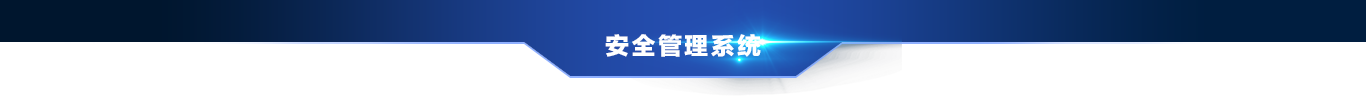
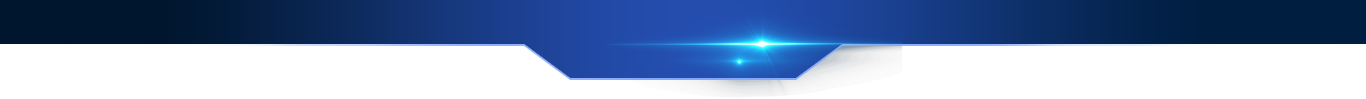
首页样式修改，和统计报表修改

Changed region(s): [[0.0, 0.2727, 1.0, 0.9091]]

diff --git a/safe/index.html b/safe/index.html
@@ -16,11 +16,12 @@
         }
 
         .layui-layout-body {
-            background: url("assets/images/bj.png");
+            background: url("assets/images/bj.png") no-repeat;
+            background-size: cover;
         }
         .layui-bg-black{
             padding-top: 30px;
-            background: url("assets/images/bj_caidan.png");
+            background: url("assets/images/bj_caidan.png") no-repeat;
             background-size: 200px 100%;
         }
         .layui-nav-tree .layui-nav-bar {
@@ -28,8 +29,12 @@
             /*height: 0;*/
             /*background-color: #244dae;*/
         }
+        span.layui-nav-bar {
+            background: transparent;
+        }
         .layui-layout-admin .layui-side{
             top: 85px;
+            padding-bottom: 30px;
         }
         .layui-layout-admin .layui-body{
             top: 85px;
@@ -46,6 +51,23 @@
             padding-left: 2px;
             height: 45px;
             line-height: 39px;
+        }
+        .layui-nav-child {
+            position: absolute;
+            left: 0;
+            top: 37px;
+            /*min-width: 100%;*/
+            line-height: 36px;
+            padding: 5px 0;
+            box-shadow: none;
+            border: 0;
+            background-color: rgba(0, 27, 57,0.8);
+            z-index: 100;
+            border-radius: 2px;
+            white-space: nowrap;
+        }
+        .layui-nav .layui-nav-child a{
+            color: #fff;
         }
         .layui-layout-admin .layui-logo {
             position: absolute;
@@ -80,9 +102,16 @@
         .layui-layout-admin .layui-header {
             background: #244dae;
             height: 85px;
-            background: url("assets/images/tou1.png");
+            background: url("assets/images/tou1.png") no-repeat;
+            background-size: 100% 100%;
         }
-
+        .header-text{
+            text-align: center;
+            font-size: 24px;
+            color: #fff;
+            font-weight: bold;
+            padding-top: 25px;
+        }
         .layui-nav-tree .layui-nav-item a:hover {
             background: #244dae;
         }
@@ -96,6 +125,7 @@
            .layui-nav .layui-nav-mored, .layui-nav-itemed > a:hover .layui-nav-more{
                border-color: transparent transparent #fff !important;
            }*/
+
     </style>
 </head>
 <body class="layui-layout-body">
@@ -105,6 +135,9 @@
             <a class="navbar-title" href="index.html">
                 返回首页
             </a>
+        </div>
+        <div class='header-text'>
+            安全管理系统
         </div>
         <!-- 头部区域（可配合layui已有的水平导航） -->
         <ul class="layui-nav layui-layout-right">
@@ -125,8 +158,60 @@
         <div class="layui-side-scroll">
             <!-- 左侧导航区域 -->
             <ul class="layui-nav layui-nav-tree" lay-filter="test">
-                <li class="layui-nav-item layui-nav-itemed"><a href="javascript:void(0);">策划危险源辨识</a></li>
-                <li class="layui-nav-item layui-this"><a href="allused.html">通用模块</a></li>
+                <li class="layui-nav-item layui-nav-itemed layui-this"><a href="javascript:void(0);">策划危险源辨识</a></li>
+                <li class="layui-nav-item">
+                    <a href="javascript:void(0);">双重防控建设</a>
+                    <dl class="layui-nav-child">
+                        <dd>
+                            <a href="javascript:void(0);">安全风险分级管控</a>
+                            <dl class="layui-nav-child">
+
+                                <dd><a href="javascript:void(0);">策划危险源</a></dd>
+                                <dd><a href="javascript:void(0);">风险评价/等级确定</a></dd>
+                                <dd><a href="javascript:void(0);">危险源控制措施</a></dd>
+                                <dd><a href="javascript:void(0);">风险告知/预警</a></dd>
+                                <dd><a href="javascript:void(0);">危险源台帐</a></dd>
+                            </dl>
+                        </dd>
+                        <dd>
+                            <a href="javascript:void(0);">隐患排查治理</a>
+                            <dl class="layui-nav-child">
+                                <dd><a href="javascript:void(0);">隐患发现</a></dd>
+                                <dd><a href="javascript:void(0);">隐患评价</a></dd>
+                                <dd><a href="javascript:void(0);">隐患治理</a></dd>
+                                <dd><a href="javascript:void(0);">隐患监控治理</a></dd>
+                                <dd><a href="javascript:void(0);">隐患验证销账</a></dd>
+                            </dl>
+                        </dd>
+                    </dl>
+                </li>
+                <li class="layui-nav-item">
+                    <a href="javascript:void(0);">考核模块</a>
+                    <dl class="layui-nav-child">
+                        <dd><a href="assessmentProject/assessmentProjectAllocation.html">考核项目配置</a></dd>
+                        <dd><a href="assessmentProject/achievement.html">考核成绩展示</a></dd>
+                        <dd><a href="assessmentProject/analysisReport.html">统计分析/报表</a></dd>
+                    </dl>
+                </li>
+                <li class="layui-nav-item">
+                    <a href="javascript:void(0);">统计分析/报表</a>
+                    <dl class="layui-nav-child">
+                        <dd><a href="atatisticalAnalysisReport/workProgress.html">工作进展</a></dd>
+                        <dd><a href="atatisticalAnalysisReport/equipmentPersonnelStatistics.html">设备人员统计</a></dd>
+                        <dd><a href="javascript:void(0);">隐患排查</a></dd>
+                        <dd><a href="atatisticalAnalysisReport/reportStatistics.html">报表统计</a></dd>
+                    </dl>
+                </li>
+                <li class="layui-nav-item">
+                    <a href="javascript:void(0);">安全文化</a>
+                    <dl class="layui-nav-child">
+                        <dd><a href="javascript:void(0);">文化手册</a></dd>
+                        <dd><a href="javascript:void(0);">文化活动</a></dd>
+                        <dd><a href="javascript:void(0);">图片管理</a></dd>
+                        <dd><a href="javascript:void(0);">文化学习</a></dd>
+                    </dl>
+                </li>
+                <li class="layui-nav-item"><a href="allused.html">通用模块</a></li>
                 <li class="layui-nav-item">
                     <a href="javascript:void(0);">管理模块</a>
                     <dl class="layui-nav-child">
@@ -293,49 +378,6 @@
                     </dl>
                 </li>
                 <li class="layui-nav-item">
-                    <a href="javascript:void(0);">双重防控建设</a>
-                    <dl class="layui-nav-child">
-                        <dd>
-                            <a href="javascript:void(0);">安全风险分级管控</a>
-                            <dl class="layui-nav-child">
-
-                                <dd><a href="javascript:void(0);">策划危险源</a></dd>
-                                <dd><a href="javascript:void(0);">风险评价/等级确定</a></dd>
-                                <dd><a href="javascript:void(0);">危险源控制措施</a></dd>
-                                <dd><a href="javascript:void(0);">风险告知/预警</a></dd>
-                                <dd><a href="javascript:void(0);">危险源台帐</a></dd>
-                            </dl>
-                        </dd>
-                        <dd>
-                            <a href="javascript:void(0);">隐患排查治理</a>
-                            <dl class="layui-nav-child">
-                                <dd><a href="javascript:void(0);">隐患发现</a></dd>
-                                <dd><a href="javascript:void(0);">隐患评价</a></dd>
-                                <dd><a href="javascript:void(0);">隐患治理</a></dd>
-                                <dd><a href="javascript:void(0);">隐患监控治理</a></dd>
-                                <dd><a href="javascript:void(0);">隐患验证销账</a></dd>
-                            </dl>
-                        </dd>
-                    </dl>
-                </li>
-                <li class="layui-nav-item">
-                    <a href="javascript:void(0);">考核模块</a>
-                    <dl class="layui-nav-child">
-                        <dd><a href="assessmentProject/assessmentProjectAllocation.html">考核项目配置</a></dd>
-                        <dd><a href="assessmentProject/achievement.html">考核成绩展示</a></dd>
-                        <dd><a href="assessmentProject/analysisReport.html">统计分析/报表</a></dd>
-                    </dl>
-                </li>
-                <li class="layui-nav-item">
-                    <a href="javascript:void(0);">统计分析/报表</a>
-                    <dl class="layui-nav-child">
-                        <dd><a href="atatisticalAnalysisReport/workProgress.html">工作进展</a></dd>
-                        <dd><a href="atatisticalAnalysisReport/equipmentPersonnelStatistics.html">设备人员统计</a></dd>
-                        <dd><a href="javascript:void(0);">隐患排查</a></dd>
-                        <dd><a href="atatisticalAnalysisReport/reportStatistics.html">报表统计</a></dd>
-                    </dl>
-                </li>
-                <li class="layui-nav-item">
                     <a href="javascript:void(0);">自评模块</a>
                     <dl class="layui-nav-child">
                         <dd><a href="javascript:void(0);">岗位管理</a></dd>
@@ -353,15 +395,6 @@
                         <dd><a href="javascript:void(0);">预警参数</a></dd>
                         <dd><a href="javascript:void(0);">预警模型</a></dd>
                         <dd><a href="javascript:void(0);">预警结果</a></dd>
-                    </dl>
-                </li>
-                <li class="layui-nav-item">
-                    <a href="javascript:void(0);">安全文化</a>
-                    <dl class="layui-nav-child">
-                        <dd><a href="javascript:void(0);">文化手册</a></dd>
-                        <dd><a href="javascript:void(0);">文化活动</a></dd>
-                        <dd><a href="javascript:void(0);">图片管理</a></dd>
-                        <dd><a href="javascript:void(0);">文化学习</a></dd>
                     </dl>
                 </li>
                 <li class="layui-nav-item">

diff --git a/safe/atatisticalAnalysisReport/workProgress.html b/safe/atatisticalAnalysisReport/workProgress.html
@@ -68,7 +68,12 @@
                 textShadowOffsetY:3
             }
         },
-
+        tooltip: {
+            trigger: 'axis',
+            axisPointer: {            // 坐标轴指示器，坐标轴触发有效
+                type: 'line'        // 默认为直线，可选为：'line' | 'shadow'
+            }
+        },
         xAxis: [
             {
                 type: 'category',
@@ -76,6 +81,12 @@
                 axisLine:{
                     lineStyle:{
                         color:'#ffffff'
+                    }
+                },
+                splitLine:{
+                    show: true,
+                    lineStyle:{
+                        color:'rgba(255,255,255,0.1)'
                     }
                 }
             }
@@ -87,6 +98,12 @@
                     lineStyle:{
                         color:'#ffffff'
                     }
+                },
+                splitLine:{
+                    show: true,
+                    lineStyle:{
+                        color:'rgba(255,255,255,0.1)'
+                    }
                 }
             }
         ],
@@ -94,10 +111,9 @@
             {
                 type: 'line',
                 smooth: true,
-                symbol:'none',
+                color:'transparent',
                 itemStyle : {
                     normal : {
-
                         lineStyle:{
                             color: new echarts.graphic.LinearGradient(
                                 1, 0, 0, 1,
@@ -135,6 +151,12 @@
                 textShadowOffsetY:3
             }
         },
+        tooltip: {
+            trigger: 'axis',
+            axisPointer: {            // 坐标轴指示器，坐标轴触发有效
+                type: 'line'        // 默认为  c直线，可选为：'line' | 'shadow'
+            }
+        },
         xAxis: [
             {
                 type: 'category',
@@ -142,6 +164,12 @@
                 axisLine:{
                     lineStyle:{
                         color:'#ffffff'
+                    }
+                },
+                splitLine:{
+                    show: true,
+                    lineStyle:{
+                        color:'rgba(255,255,255,0.1)'
                     }
                 }
             }
@@ -153,6 +181,12 @@
                     lineStyle:{
                         color:'#ffffff'
                     }
+                },
+                splitLine:{
+                    show: true,
+                    lineStyle:{
+                        color:'rgba(255,255,255,0.1)'
+                    }
                 }
             }
         ],
@@ -160,7 +194,8 @@
             {
                 type: 'line',
                 smooth: true,
-                symbol:'none',
+                // symbol:'none',
+                color:'transparent',
                 itemStyle : {
                     normal : {
 
@@ -224,6 +259,12 @@
                     lineStyle:{
                         color:'#ffffff'
                     }
+                },
+                splitLine:{
+                    show: true,
+                    lineStyle:{
+                        color:'rgba(255,255,255,0.1)'
+                    }
                 }
             }
         ],
@@ -233,6 +274,12 @@
                 axisLine:{
                     lineStyle:{
                         color:'#ffffff'
+                    }
+                },
+                splitLine:{
+                    show: true,
+                    lineStyle:{
+                        color:'rgba(255,255,255,0.1)'
                     }
                 }
             }
